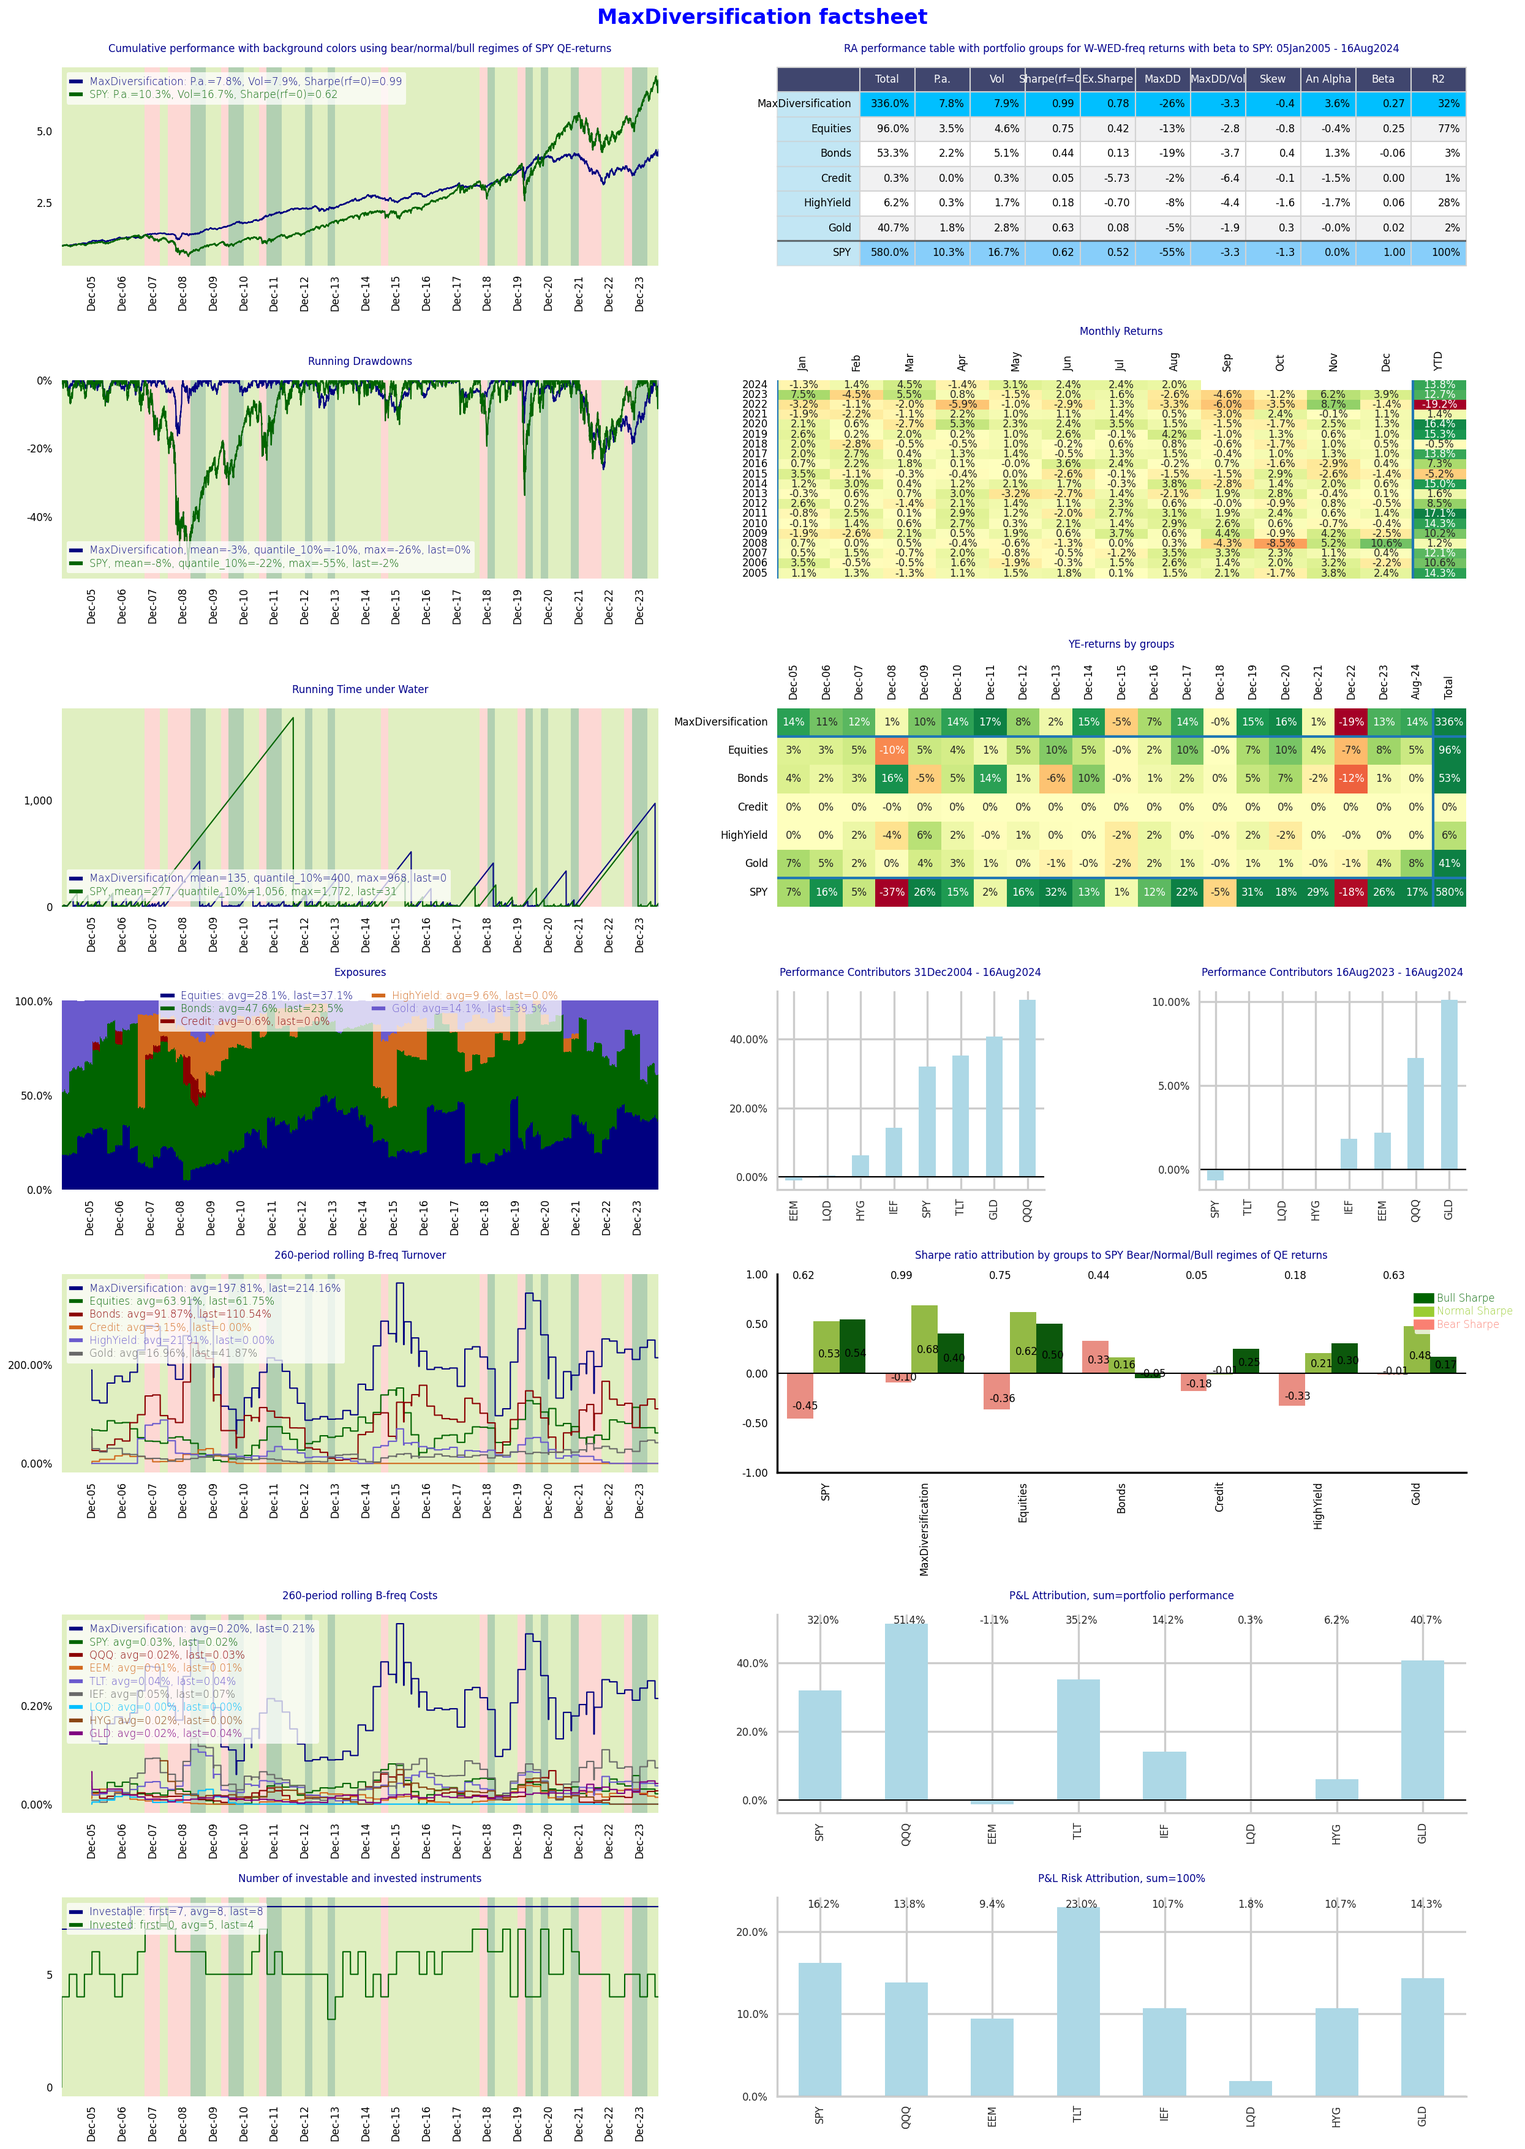
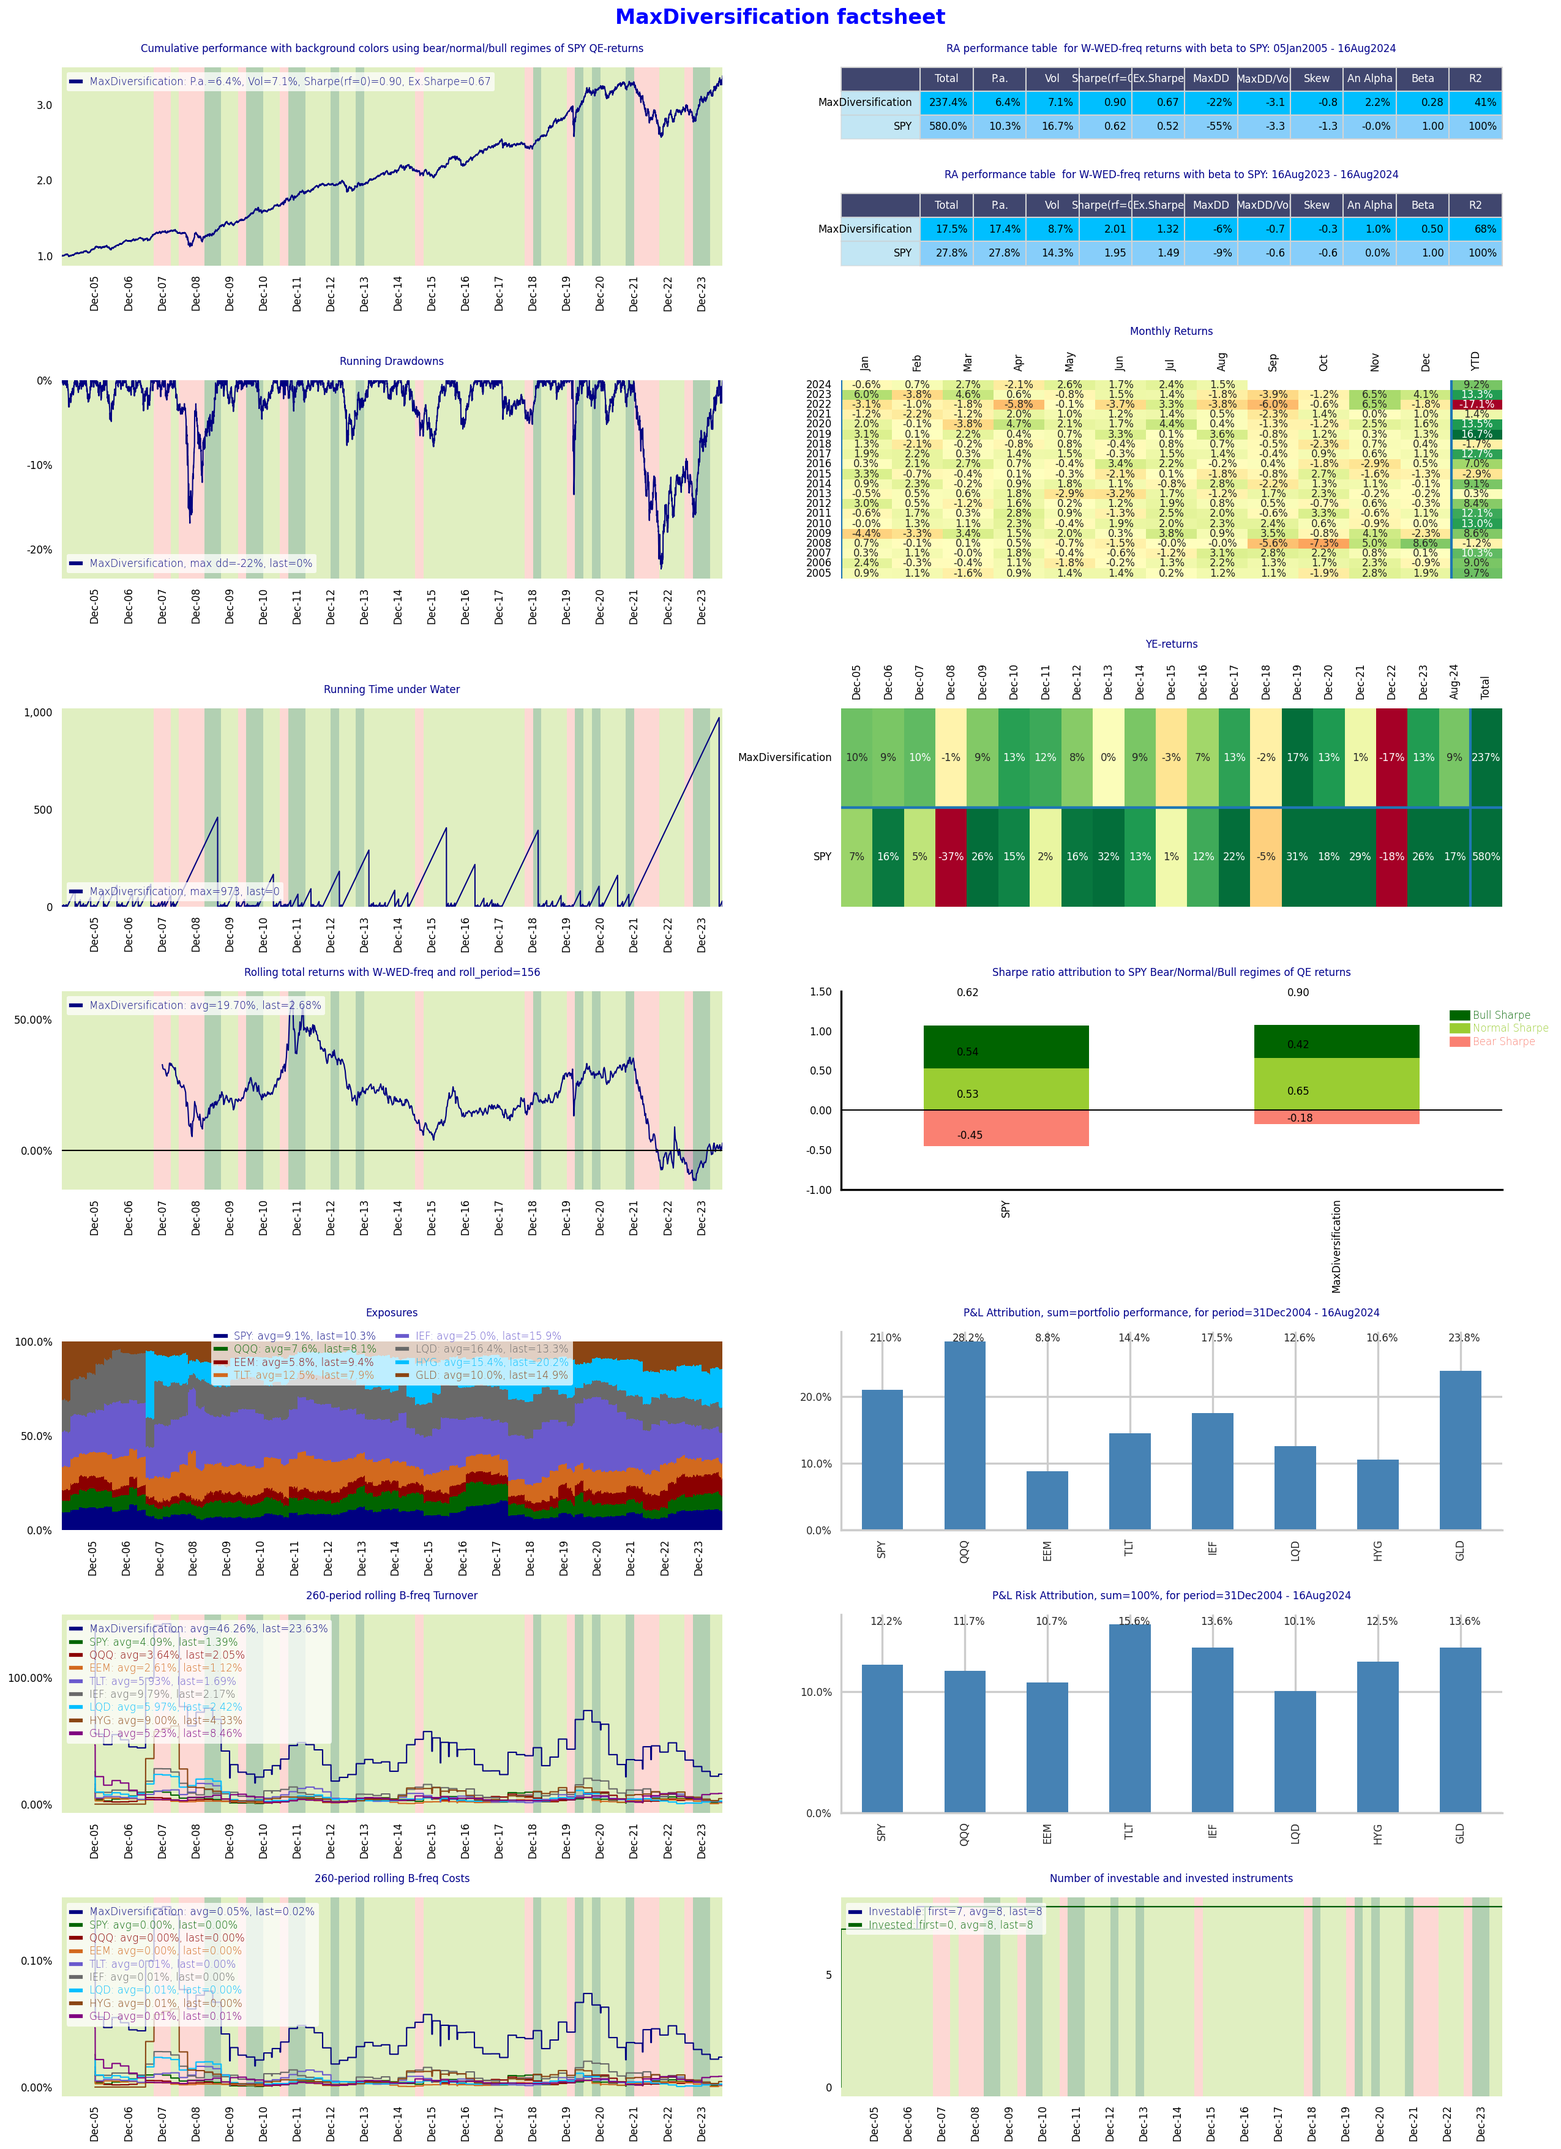
Replace 'Adj Close' with 'Close' for compatibility with yfinance>=0.2.52

diff --git a/optimalportfolios/examples/crypto_allocation/load_prices.py b/optimalportfolios/examples/crypto_allocation/load_prices.py
@@ -48,13 +48,13 @@ def update_prices_with_yf() -> pd.DataFrame:
     bal = create_balanced_price()
 
     # REET starts from Jul 08, 2014 - use IYR for backfill
-    iyr = yf.download('IYR', start=None, end=None, ignore_tz=True)['Adj Close'].rename(Assets.RE.value)
-    reet = yf.download('REET', start=None, end=None, ignore_tz=True)['Adj Close'].rename(Assets.RE.value)
+    iyr = yf.download('IYR', start=None, end=None, ignore_tz=True)['Close'].rename(Assets.RE.value)
+    reet = yf.download('REET', start=None, end=None, ignore_tz=True)['Close'].rename(Assets.RE.value)
     re = qis.bfill_timeseries(df_newer=reet, df_older=iyr, is_prices=True)
 
     # COMT starts from 2014-10-16, use GSG for backfill
-    coms0 = yf.download('GSG', start=None, end=None, ignore_tz=True)['Adj Close'].rename(Assets.COMS.value)
-    coms1 = yf.download('COMT', start=None, end=None, ignore_tz=True)['Adj Close'].rename(Assets.COMS.value)
+    coms0 = yf.download('GSG', start=None, end=None, ignore_tz=True)['Close'].rename(Assets.COMS.value)
+    coms1 = yf.download('COMT', start=None, end=None, ignore_tz=True)['Close'].rename(Assets.COMS.value)
     coms = qis.bfill_timeseries(df_newer=coms1, df_older=coms0, is_prices=True)
 
     # use local copies
@@ -63,8 +63,8 @@ def update_prices_with_yf() -> pd.DataFrame:
     macro = qis.load_df_from_excel(file_name=MACRO_PRICE, local_path=LOCAL_PATH).iloc[:, 0].rename(Assets.MACRO.value)
 
     # etfs
-    gld = yf.download('GLD', start=None, end=None, ignore_tz=True)['Adj Close'].rename(Assets.GLD.value)
-    pe = yf.download('PSP', start=None, end=None, ignore_tz=True)['Adj Close'].rename(Assets.PE.value)
+    gld = yf.download('GLD', start=None, end=None, ignore_tz=True)['Close'].rename(Assets.GLD.value)
+    pe = yf.download('PSP', start=None, end=None, ignore_tz=True)['Close'].rename(Assets.PE.value)
 
     prices = pd.concat([bal, btc, eth, hf, pe, re, macro, cta, coms, gld], axis=1)
     # to business day frequency
@@ -87,13 +87,13 @@ def update_prices_with_bloomberg() -> pd.DataFrame:
     bal = create_balanced_price()
 
     # REET starts from Jul 08, 2014 - use IYR for backfill
-    iyr = yf.download('IYR', start=None, end=None, ignore_tz=True)['Adj Close'].rename(Assets.RE.value)
-    reet = yf.download('REET', start=None, end=None, ignore_tz=True)['Adj Close'].rename(Assets.RE.value)
+    iyr = yf.download('IYR', start=None, end=None, ignore_tz=True)['Close'].rename(Assets.RE.value)
+    reet = yf.download('REET', start=None, end=None, ignore_tz=True)['Close'].rename(Assets.RE.value)
     re = qis.bfill_timeseries(df_newer=reet, df_older=iyr, is_prices=True)
 
     # COMT starts from 2014-10-16, use GSG for backfill
-    coms0 = yf.download('GSG', start=None, end=None, ignore_tz=True)['Adj Close'].rename(Assets.COMS.value)
-    coms1 = yf.download('COMT', start=None, end=None, ignore_tz=True)['Adj Close'].rename(Assets.COMS.value)
+    coms0 = yf.download('GSG', start=None, end=None, ignore_tz=True)['Close'].rename(Assets.COMS.value)
+    coms1 = yf.download('COMT', start=None, end=None, ignore_tz=True)['Close'].rename(Assets.COMS.value)
     coms = qis.bfill_timeseries(df_newer=coms1, df_older=coms0, is_prices=True)
 
     # use bbg
@@ -102,8 +102,8 @@ def update_prices_with_bloomberg() -> pd.DataFrame:
     macro = fetch_field_timeseries_per_tickers(tickers={'HFRIMDT Index': Assets.MACRO.value}).iloc[:, 0]
 
     # etfs
-    gld = yf.download('GLD', start=None, end=None, ignore_tz=True)['Adj Close'].rename(Assets.GLD.value)
-    pe = yf.download('PSP', start=None, end=None, ignore_tz=True)['Adj Close'].rename(Assets.PE.value)
+    gld = yf.download('GLD', start=None, end=None, ignore_tz=True)['Close'].rename(Assets.GLD.value)
+    pe = yf.download('PSP', start=None, end=None, ignore_tz=True)['Close'].rename(Assets.PE.value)
 
     prices = pd.concat([bal, btc, eth, hf, pe, re, macro, cta, coms, gld], axis=1).sort_index()
     # to business day frequency
@@ -131,8 +131,8 @@ def create_eth_price(btc_price: pd.Series) -> pd.Series:
 
 
 def create_balanced_price() -> pd.Series:
-    spy = yf.download('SPY', start=None, end=None, ignore_tz=True)['Adj Close'].rename('SPY')
-    ief = yf.download('IEF', start=None, end=None, ignore_tz=True)['Adj Close'].rename('IEF')
+    spy = yf.download('SPY', start=None, end=None, ignore_tz=True)['Close'].rename('SPY')
+    ief = yf.download('IEF', start=None, end=None, ignore_tz=True)['Close'].rename('IEF')
     prices = pd.concat([spy, ief], axis=1).dropna()
     balanced = qis.backtest_model_portfolio(prices=prices,
                                             weights=[0.6, 0.4],
@@ -171,7 +171,7 @@ def load_prices(assets: List[Assets] = None,
 
 
 def load_risk_free_rate() -> pd.Series:
-    return yf.download('^IRX', start=None, end=None)['Adj Close'].dropna() / 100.0
+    return yf.download('^IRX', start=None, end=None)['Close'].dropna() / 100.0
 
 
 class UnitTests(Enum):
@@ -209,7 +209,7 @@ def run_unit_test(unit_test: UnitTests):
     elif unit_test == UnitTests.CREATE_BALANCED_PRICE:
         price = create_balanced_price()
         print(price)
-        bal = yf.download('AOR', start=None, end=None, ignore_tz=True)['Adj Close'].rename('AOR')
+        bal = yf.download('AOR', start=None, end=None, ignore_tz=True)['Close'].rename('AOR')
         prices = pd.concat([price, bal], axis=1).dropna()
         qis.plot_prices_with_dd(prices=prices)
 
@@ -217,7 +217,7 @@ def run_unit_test(unit_test: UnitTests):
         assets = ['IYR', 'REZ', 'REET']
         prices = []
         for asset in assets:
-            prices.append(yf.download(asset, start=None, end=None, ignore_tz=True)['Adj Close'].rename(asset))
+            prices.append(yf.download(asset, start=None, end=None, ignore_tz=True)['Close'].rename(asset))
         prices = pd.concat(prices, axis=1).dropna()
         qis.plot_prices_with_dd(prices=prices)
 

diff --git a/optimalportfolios/examples/solvers/target_return.py b/optimalportfolios/examples/solvers/target_return.py
@@ -82,7 +82,7 @@ def fetch_benchmark_universe_data() -> Tuple[pd.DataFrame, pd.DataFrame, pd.Data
 
     tickers = list(universe_data.keys())
     group_data = pd.Series(universe_data)  # for portfolio reporting
-    prices = yf.download(tickers=tickers, start=None, end=None, ignore_tz=True)['Adj Close'][tickers]
+    prices = yf.download(tickers=tickers, start=None, end=None, ignore_tz=True)['Close'][tickers]
     prices = prices.asfreq('B', method='ffill')
 
     dividends = {}
@@ -99,8 +99,8 @@ def fetch_benchmark_universe_data() -> Tuple[pd.DataFrame, pd.DataFrame, pd.Data
     yields = pd.DataFrame.from_dict(yields, orient='columns')
 
     benchmarks = ['AGG']
-    benchmark_prices = yf.download(tickers=benchmarks, start=None, end=None, ignore_tz=True)['Adj Close'].to_frame('AGG')#[benchmarks]
-    target_returns = yf.download('^IRX', start=None, end=None)['Adj Close'].dropna() / 100.0
+    benchmark_prices = yf.download(tickers=benchmarks, start=None, end=None, ignore_tz=True)['Close'].to_frame('AGG')#[benchmarks]
+    target_returns = yf.download('^IRX', start=None, end=None)['Close'].dropna() / 100.0
     target_returns = target_returns.reindex(index=prices.index).ffill().rename('Target return')
     return prices, benchmark_prices, dividends, yields, target_returns, group_data
 

diff --git a/optimalportfolios/examples/optimal_portfolio_backtest.py b/optimalportfolios/examples/optimal_portfolio_backtest.py
@@ -31,7 +31,7 @@ def fetch_universe_data() -> Tuple[pd.DataFrame, pd.DataFrame, pd.Series]:
                          GLD='Gold')
     tickers = list(universe_data.keys())
     group_data = pd.Series(universe_data)
-    prices = yf.download(tickers, start=None, end=None, ignore_tz=True)['Adj Close']
+    prices = yf.download(tickers, start=None, end=None, ignore_tz=True)['Close']
     prices = prices[tickers]  # arrange as given
     prices = prices.asfreq('B', method='ffill')  # refill at B frequency
     benchmark_prices = prices[['SPY', 'TLT']]
@@ -43,7 +43,7 @@ prices, benchmark_prices, group_data = fetch_universe_data()
 time_period = qis.TimePeriod('31Dec2004', '16Aug2024')   # period for computing weights backtest
 
 # 3.a. define optimisation setup
-portfolio_objective = PortfolioObjective.MAX_DIVERSIFICATION  # define portfolio objective
+portfolio_objective = PortfolioObjective.EQUAL_RISK_CONTRIBUTION  # define portfolio objective
 returns_freq = 'W-WED'  # use weekly returns
 rebalancing_freq = 'QE'  # weights rebalancing frequency: rebalancing is quarterly on WED
 span = 52  # span of number of returns_freq-returns for covariance estimation = 12y

diff --git a/optimalportfolios/examples/sp500_minvar.py b/optimalportfolios/examples/sp500_minvar.py
@@ -42,7 +42,7 @@ def create_sp500_universe():
         return inclusion_indicators
 
     def fetch_universe_prices(tickers: List[str]) -> pd.DataFrame:
-        prices = yf.download(tickers=tickers, start=None, end=None, ignore_tz=True)['Adj Close']
+        prices = yf.download(tickers=tickers, start=None, end=None, ignore_tz=True)['Close']
         return prices[tickers]
 
     def fetch_universe_industry(tickers: List[str]) -> pd.Series:
@@ -126,7 +126,7 @@ def run_unit_test(unit_test: UnitTests):
                                              squeeze_factors=squeeze_factors)
 
         # run cross portfolio report
-        benchmark_prices = yf.download('SPY', start=None, end=None, ignore_tz=True)['Adj Close'].asfreq('B').ffill()
+        benchmark_prices = yf.download('SPY', start=None, end=None, ignore_tz=True)['Close'].asfreq('B').ffill()
         multi_portfolio_data = qis.MultiPortfolioData(portfolio_datas=portfolio_datas,
                                                       benchmark_prices=benchmark_prices)
 

diff --git a/optimalportfolios/examples/lasso_estimation.py b/optimalportfolios/examples/lasso_estimation.py
@@ -34,8 +34,8 @@ benchmark_tickers = ['SPY', 'IEF', 'LQD', 'USO', 'GLD', 'UUP']
 asset_group_loadings = qis.set_group_loadings(group_data=instrument_data)
 print(asset_group_loadings)
 
-asset_prices = yf.download(asset_tickers, start=None, end=None)['Adj Close'][asset_tickers].asfreq('B', method='ffill')
-benchmark_prices = yf.download(benchmark_tickers, start=None, end=None)['Adj Close'][benchmark_tickers].reindex(index=asset_prices.index, method='ffill')
+asset_prices = yf.download(asset_tickers, start=None, end=None)['Close'][asset_tickers].asfreq('B', method='ffill')
+benchmark_prices = yf.download(benchmark_tickers, start=None, end=None)['Close'][benchmark_tickers].reindex(index=asset_prices.index, method='ffill')
 
 y = qis.to_returns(asset_prices, freq='ME', drop_first=True)
 x = qis.to_returns(benchmark_prices, freq='ME', drop_first=True)

diff --git a/optimalportfolios/examples/lasso_covar_estimation.py b/optimalportfolios/examples/lasso_covar_estimation.py
@@ -33,8 +33,8 @@ benchmark_tickers = ['SPY', 'IEF', 'LQD', 'USO', 'GLD', 'UUP']
 asset_group_loadings = qis.set_group_loadings(group_data=group_data)
 print(asset_group_loadings)
 
-asset_prices = yf.download(asset_tickers, start=None, end=None)['Adj Close'][asset_tickers].asfreq('B', method='ffill')
-benchmark_prices = yf.download(benchmark_tickers, start=None, end=None)['Adj Close'][benchmark_tickers].reindex(
+asset_prices = yf.download(asset_tickers, start=None, end=None)['Close'][asset_tickers].asfreq('B', method='ffill')
+benchmark_prices = yf.download(benchmark_tickers, start=None, end=None)['Close'][benchmark_tickers].reindex(
     index=asset_prices.index, method='ffill')
 
 

diff --git a/optimalportfolios/examples/universe.py b/optimalportfolios/examples/universe.py
@@ -41,7 +41,7 @@ def fetch_benchmark_universe_data() -> Tuple[pd.DataFrame, pd.DataFrame, pd.Data
 
     tickers = list(universe_data.keys())
     benchmark_weights = pd.Series(benchmark_weights)
-    prices = yf.download(tickers=tickers, start=None, end=None, ignore_tz=True)['Adj Close'][tickers]
+    prices = yf.download(tickers=tickers, start=None, end=None, ignore_tz=True)['Close'][tickers]
     prices = prices.asfreq('B').ffill()
     # for group lass
     ac_benchmark_prices = prices[['SPY', 'TLT', 'LQD', 'HYG', 'GSG']].rename(dict(SPY='Equities', TLT='Bonds', IG='LQD', HYG='HighYield', GLD='Commodts'))

diff --git a/optimalportfolios/test_data.py b/optimalportfolios/test_data.py
@@ -26,7 +26,8 @@ def update_test_prices() -> pd.DataFrame:
     tickers = list(UNIVERSE_DATA.keys())
     prices = yf.download(tickers=tickers,
                          start=None, end=None,
-                         ignore_tz=True)['Adj Close']
+                         ignore_tz=True, auto_adjust=True)
+    prices = prices['Close']
     prices = prices.asfreq('B', method='ffill')  # rescale to business days
     prices = prices[tickers]  # align order
     qis.save_df_to_csv(df=prices, file_name=FILE_NAME, local_path=local_path.get_resource_path())

diff --git a/optimalportfolios/utils/gaussian_mixture.py b/optimalportfolios/utils/gaussian_mixture.py
@@ -313,7 +313,7 @@ def run_unit_test(unit_test: UnitTests):
 
     elif unit_test == UnitTests.PLOT_MIXURE:
         import yfinance as yf
-        prices = yf.download(tickers=['SPY', 'TLT'], start=None, end=None)['Adj Close'].dropna()
+        prices = yf.download(tickers=['SPY', 'TLT'], start=None, end=None)['Close'].dropna()
         perf_params = qis.PerfParams(freq='W-WED')
         kwargs = dict(fontsize=12, digits_to_show=1, sharpe_digits=2,
                       alpha_format='{0:+0.0%}',

diff --git a/setup.py b/setup.py
@@ -16,7 +16,7 @@ requirements = read_requirements("requirements.txt")
 
 setup(
     name='optimalportfolios',
-    version='3.1.5',
+    version='3.1.6',
     author='Artur Sepp',
     author_email='artursepp@gmail.com',
     url='https://github.com/ArturSepp/OptimalPortfolios',

diff --git a/README.md b/README.md
@@ -370,7 +370,7 @@ def fetch_universe_data() -> Tuple[pd.DataFrame, pd.DataFrame, pd.Series]:
                          GLD='Gold')
     tickers = list(universe_data.keys())
     group_data = pd.Series(universe_data)
-    prices = yf.download(tickers, start=None, end=None, ignore_tz=True)['Adj Close']
+    prices = yf.download(tickers, start=None, end=None, ignore_tz=True)['Close']
     prices = prices[tickers]  # arrange as given
     prices = prices.asfreq('B', method='ffill')  # refill at B frequency
     benchmark_prices = prices[['SPY', 'TLT']]
